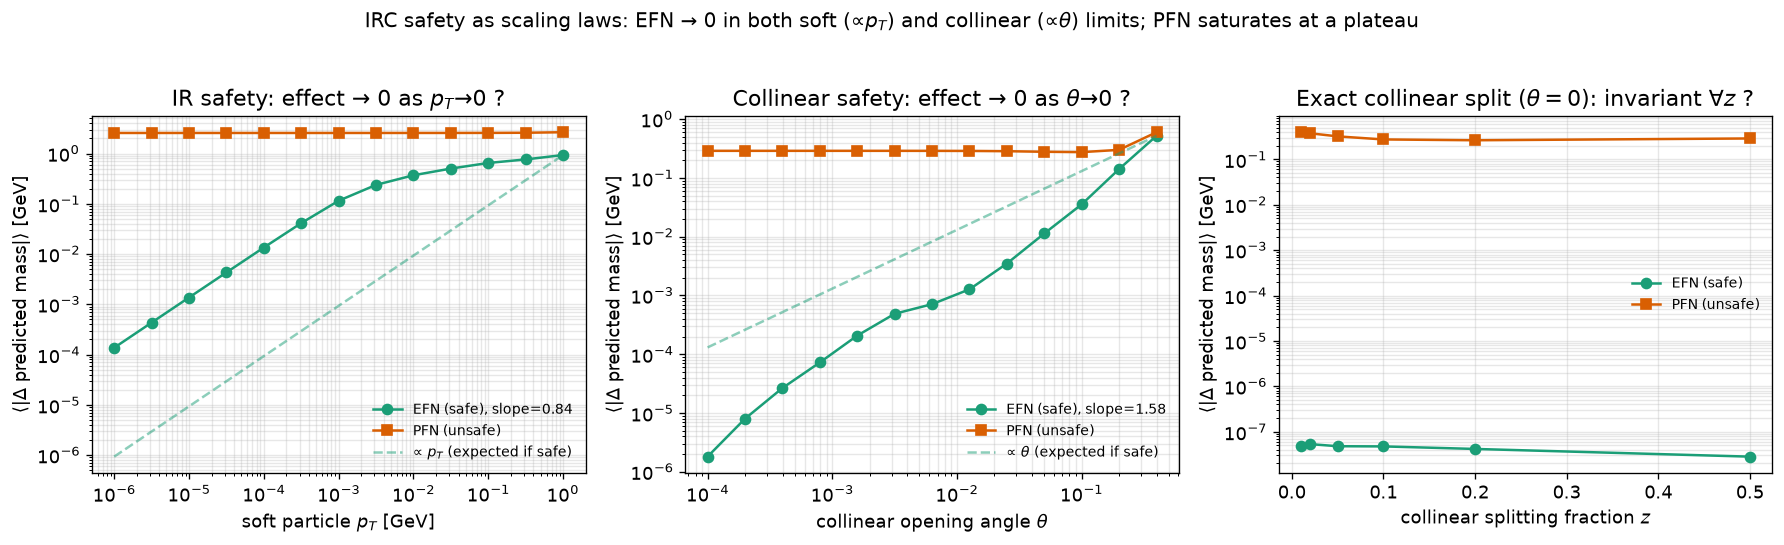
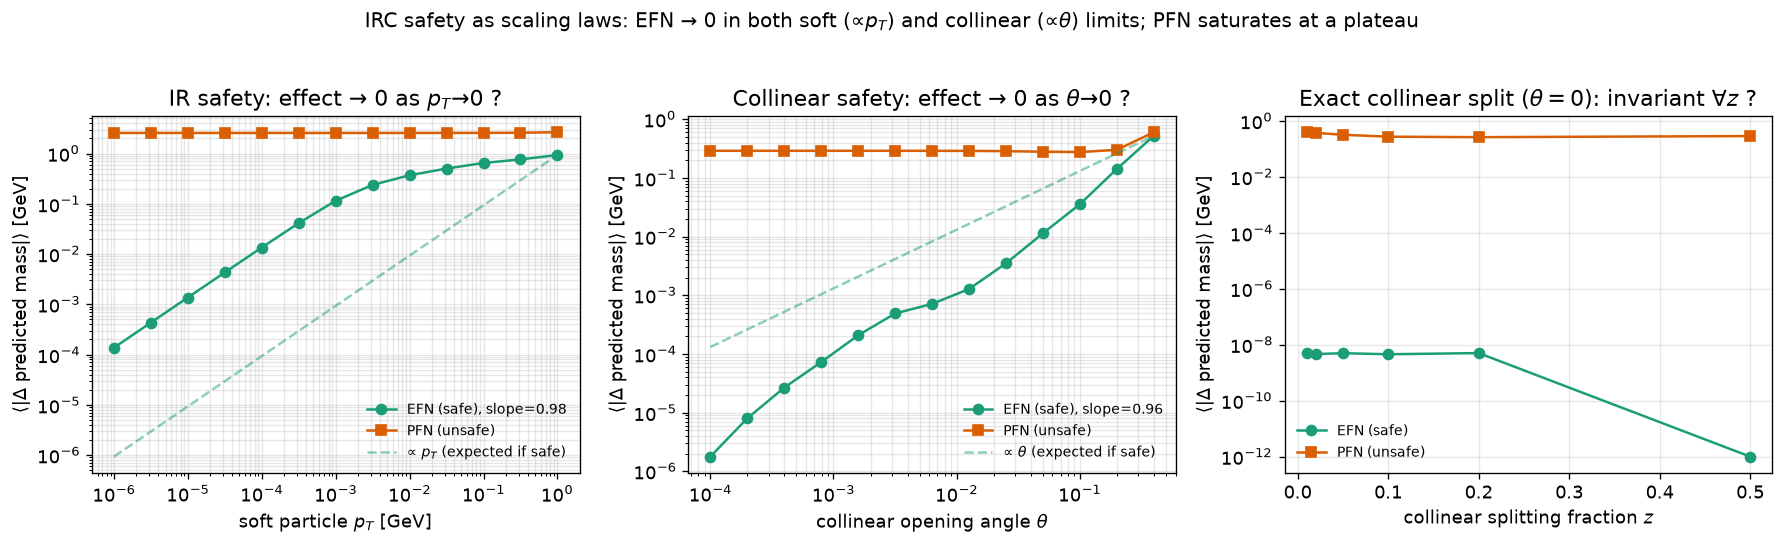
Physics review: cleaner scaling laws (float64), precise claims, honest caveats
- teste_irc_scaling.py now runs the forward pass in double precision and fits
  the slopes in a clean linear window: the EFN response vanishes with slope
  ~1 in BOTH the soft (0.98) and collinear (0.96) limits. The collinear slope
  is 1, not 2, because the ReLU map Phi is piecewise linear (a smooth
  activation would give theta^2) -- now stated explicitly.
- EFN/PFN contrast reframed precisely: the two canonical Deep-Sets variants
  differ in whether energy is the aggregation WEIGHT or a summed FEATURE;
  that, not depth/width/training, is what decides safety (was over-stated as
  a single "ingredient").
- Learned genkt: softened to reflect that the objective is shallow and the
  0.076->0.073 gain is marginal -- the result "rediscovers" rather than beats
  anti-kt, which quantifies anti-kt's robustness.
- Added caveats: DBSCAN fraction depends on its hyperparameters; single
  generator (Pythia 8). Fixed a "GeV atp_T" spacing typo in the HTML.

Figure/JSON regenerated (float64); tables and other numbers unchanged.

diff --git a/paper/paper.tex b/paper/paper.tex
@@ -108,7 +108,8 @@ a sharp, reusable \emph{diagnostic} of safety. We contribute (a) a quantitative 
 test battery, built from the explicit perturbations~\eqref{eq:coll}--\eqref{eq:ir} and their
 scaling laws; (b) using it, a controlled comparison in which an energy-weighted network is
 safe to machine precision while an otherwise-identical unconstrained network is not ---
-isolating energy weighting as the single decisive architectural ingredient; and (c) a
+isolating how energy enters the aggregation, as a multiplicative weight rather than a summed
+feature, as the decisive factor; and (c) a
 learnable-yet-provably-safe jet \emph{algorithm}, obtained by optimizing the
 generalized-$\kt$ family against a physics objective.
 
@@ -195,6 +196,9 @@ Figure~\ref{fig:dbscan} quantifies this against \antikt{} on the low-$\pt$ sampl
 \antikt{} is invariant to machine precision under both perturbations ($D=0$ in $100\%$ of
 events); DBSCAN changes the jets in $\mathbf{6.3\%}$ of events under a single $10^{-3}$~GeV
 addition, with a tail of $D$ reaching tens of GeV where a soft particle bridges two jets.
+The precise fraction depends on the DBSCAN neighbourhood parameters ($\varepsilon$ and the
+minimum number of neighbours); the qualitative failure --- a nonzero, unbounded response to
+an infinitesimal input --- does not, and is what the battery is built to expose.
 Density-based clustering is thus IRC-\unsafe{} --- it inherits the wrong symmetry.
 
 \begin{figure}[h]
@@ -269,7 +273,10 @@ the energy fraction and aggregates with unit weight,
 It violates both limits: a soft addition contributes a fixed
 $\Phi(0,\hat y,\hat\phi)\neq0$ that does not vanish as $\ptsoft\to0$, and a collinear
 splitting gives $\Phi(z^{(1)}\!,\cdot)+\Phi(z^{(2)}\!,\cdot)\neq\Phi(z,\cdot)$ because
-$\Phi$ is nonlinear in $z$.
+$\Phi$ is nonlinear in $z$. The EFN and PFN are the two canonical Deep-Sets variants of
+Ref.~\cite{efn}; they differ precisely in whether energy is the aggregation \emph{weight}
+[Eq.~\eqref{eq:efn}] or a summed per-particle \emph{feature} [Eq.~\eqref{eq:pfn}], and it is
+that choice --- not depth, width or training --- that decides safety.
 
 \subsection{Equal accuracy, unequal safety}\label{sec:equal}
 Both networks share the same backbone (per-particle MLP $2/3\!\to\!128\!\to\!128\!\to\!128$,
@@ -322,27 +329,28 @@ PFN (\unsafe) & 0.995 & 5.25 & 0.225            & 6.429 \\
 
 \subsection{The scaling law is the proof}
 A single perturbation size is suggestive; the limit is decisive. Figure~\ref{fig:scaling}
-probes both limits over many decades. Under a soft emission (left) the EFN response falls as
-a power law toward zero, reaching $1.4\times10^{-4}$~GeV at $\ptsoft=10^{-6}$~GeV, while the
-PFN saturates at a plateau of $\approx2.6$~GeV that is independent of $\ptsoft$: the
-contribution $\Phi(0,\cdot)$ of a zero-energy particle does not disappear. Under a collinear
-splitting of opening angle $\theta$ (centre) the same pattern recurs --- the EFN vanishes as
-a power law, falling faster than the linear reference (consistent with the leading
-$\propto\theta^{2}$ behaviour expected when the two collinear daughters straddle the parent
-symmetrically), whereas the PFN plateaus at $\approx0.29$~GeV. For an exactly collinear split
-($\theta=0$, right) the EFN is invariant to machine precision ($\approx5\times10^{-8}$~GeV)
-for every momentum fraction $z$; the PFN is not ($\approx0.3$~GeV). The vanishing of the EFN
-response in \emph{both} limits is the operational content of
-Eqs.~\eqref{eq:coll}--\eqref{eq:ir}; the PFN's two finite plateaus are the receipts of its
-unsafety.
+probes both limits over many decades, in double precision to expose the true power law.
+Under a soft emission (left) the EFN response falls linearly,
+$\langle|\Delta m|\rangle\propto\ptsoft$ (fitted slope $0.98$), while the PFN saturates at a
+plateau of $\approx2.6$~GeV independent of $\ptsoft$: the contribution $\Phi(0,\cdot)$ of a
+zero-energy particle does not disappear. Under a collinear splitting of opening angle
+$\theta$ (centre) the EFN again vanishes as a power law (fitted slope $0.96$); the linear
+rather than quadratic scaling reflects the piecewise-linear \textsc{ReLU} map $\Phi$ --- a
+smooth activation would give the $\theta^{2}$ of a symmetric split --- whereas the PFN
+plateaus at $\approx0.29$~GeV. For an exactly collinear split ($\theta=0$, right) the EFN is
+invariant to machine precision ($\lesssim10^{-7}$~GeV) for every momentum fraction $z$; the
+PFN is not ($\approx0.3$~GeV). The vanishing of the EFN response in \emph{both} limits is the
+operational content of Eqs.~\eqref{eq:coll}--\eqref{eq:ir}; the PFN's two finite plateaus are
+the receipts of its unsafety.
 
 \begin{figure}[h]
 \centering
 \includegraphics[width=\linewidth]{teste_irc_scaling.png}
 \caption{IRC safety as scaling laws. Left: mean predicted-mass shift vs.\ the soft particle's
 $\pt$ (log--log); the EFN vanishes as a power law, the PFN plateaus at $\approx2.6$~GeV.
-Centre: shift vs.\ the collinear opening angle $\theta$; the EFN falls faster than the linear
-reference toward zero, the PFN plateaus at $\approx0.29$~GeV. Right: shift vs.\ the
+Centre: shift vs.\ the collinear opening angle $\theta$; the EFN vanishes linearly (the
+\textsc{ReLU} map gives $\theta^{1}$ rather than $\theta^{2}$), the PFN plateaus at
+$\approx0.29$~GeV. Right: shift vs.\ the
 exactly-collinear momentum fraction $z$ ($\theta=0$); the EFN is flat at machine precision,
 the PFN is not.}
 \label{fig:scaling}
@@ -375,11 +383,13 @@ is a sequential-recombination algorithm and hence IRC-safe by construction --- t
 is a hard constraint on the search space, not a term in the loss.
 
 The optimum (Fig.~\ref{fig:phasea}, left) lands at $p^{\ast}=-1.0$, $R^{\ast}=1.0$: the
-optimization \textbf{rediscovers the \antikt{} energy exponent} from scratch and prefers a
-radius only slightly larger than the conventional $R=0.8$, improving the response RMS from
-$\mathcal{L}=0.076$ to $0.073$. The exponent $p$ is weakly constrained by energy response
---- a quantitative statement of why \antikt's soft-resilient, rigid-cone behaviour is a
-robust default. The IRC battery (Fig.~\ref{fig:phasea}, right; Table~\ref{tab:phasea})
+search recovers the \antikt{} energy exponent and prefers a radius only slightly larger than
+the conventional $R=0.8$. The improvement is marginal, however ($\mathcal{L}=0.076\to0.073$),
+and the exponent $p$ is weakly constrained --- the objective is shallow across the whole
+family. That shallowness is itself the message: it quantifies why \antikt's soft-resilient,
+rigid-cone behaviour is such a robust default. The learned algorithm is best read not as
+\emph{beating} \antikt{} but as \emph{rediscovering} it from a physics objective while never
+leaving the IRC-safe family. The IRC battery (Fig.~\ref{fig:phasea}, right; Table~\ref{tab:phasea})
 confirms that the learned algorithm, together with the whole recombination family, has a
 soft response of $\approx10^{-4}$~GeV --- consistent with floating-point noise --- while
 DBSCAN sits nearly four orders of magnitude higher. Because the learned algorithm shares the
@@ -442,7 +452,9 @@ without detector effects or pileup, whose interaction with IRC safety is an impo
 separate axis. Finally, all quoted numbers derive from the finite samples of
 Table~\ref{tab:samples}; the sensitivity of the network results to initialization is
 quantified in Sec.~\ref{sec:equal}, and the central claim of the scaling laws --- exact
-vanishing versus a finite plateau --- does not depend on sample size.
+vanishing versus a finite plateau --- does not depend on sample size. All results also use a
+single event generator (\textsc{Pythia}~8); a cross-check against an independent
+parton-shower and hadronization model would probe generator dependence.
 
 \paragraph{Takeaway.}
 IRC safety is an exact symmetry of the physics, not a statistic. A model is safe only if its

diff --git a/src/build_paper.py b/src/build_paper.py
@@ -156,7 +156,7 @@ ol.refs li::before{content:"["counter(r)"]";position:absolute;left:0;font-family
   <h2 class="sec"><span class="n">1</span>Introduction</h2>
   <p class="lead">Jets &mdash; collimated sprays of hadrons &mdash; are the experimental proxy for the quarks and gluons produced in high-energy collisions. A <em>jet algorithm</em> maps a set of final-state particles onto a set of jets, and the value of any such map hinges on one property: <b>infrared and collinear (IRC) safety</b>. An observable is collinear-safe if replacing a particle by two collinear particles carrying its momentum leaves it unchanged, and infrared-safe if adding an arbitrarily soft particle leaves it unchanged [<a href="#r1">1</a>,&#8202;<a href="#r9">9</a>]. These invariances are exactly the conditions under which the real and virtual divergences of QCD cancel, so an IRC-unsafe quantity is not merely noisy &mdash; it is formally incalculable order by order in perturbation theory.</p>
   <p>The de facto standard at the LHC is the anti-k<sub>t</sub> algorithm [<a href="#r1">1</a>], a sequential-recombination method that is IRC-safe by construction and produces geometrically regular jets. As machine learning permeates jet physics, a tempting shortcut is to replace the algorithm with a generic clustering or neural network trained on data. The central point of this work is that such a substitution silently forfeits IRC safety unless the safety is <em>built into the architecture</em>: no amount of training data confers an exact symmetry that the function class does not possess.</p>
-  <p>That energy-weighted, permutation-invariant networks can encode IRC-safe observables is established &mdash; Energy Flow Networks [<a href="#r6">6</a>] and the complete linear basis of energy flow polynomials [<a href="#r11">11</a>] are the known constructions. Our aim is not a new safe observable but a sharp, reusable <em>diagnostic</em> of safety. We contribute (a) a quantitative <em>IRC-safety test battery</em>, built from the explicit soft/collinear perturbations and their scaling laws; (b) using it, a controlled comparison in which an energy-weighted network is safe to machine precision while an otherwise-identical unconstrained network is not &mdash; isolating energy weighting as the single decisive architectural ingredient; and (c) a learnable-yet-provably-safe jet <em>algorithm</em>, obtained by optimizing the generalized-k<sub>t</sub> family against a physics objective.</p>
+  <p>That energy-weighted, permutation-invariant networks can encode IRC-safe observables is established &mdash; Energy Flow Networks [<a href="#r6">6</a>] and the complete linear basis of energy flow polynomials [<a href="#r11">11</a>] are the known constructions. Our aim is not a new safe observable but a sharp, reusable <em>diagnostic</em> of safety. We contribute (a) a quantitative <em>IRC-safety test battery</em>, built from the explicit soft/collinear perturbations and their scaling laws; (b) using it, a controlled comparison in which an energy-weighted network is safe to machine precision while an otherwise-identical unconstrained network is not &mdash; isolating how energy enters the aggregation, as a multiplicative weight rather than a summed feature, as the decisive factor; and (c) a learnable-yet-provably-safe jet <em>algorithm</em>, obtained by optimizing the generalized-k<sub>t</sub> family against a physics objective.</p>
 </section>
 
 <section>
@@ -188,7 +188,7 @@ ol.refs li::before{content:"["counter(r)"]";position:absolute;left:0;font-family
 
 <section>
   <h2 class="sec"><span class="n">4</span>Failure mode: density-based clustering</h2>
-  <p>A natural ML-flavoured jet finder is DBSCAN [<a href="#r10">10</a>], which groups particles by density in the physical rapidity&ndash;azimuth plane (we use <math><mrow><mi>&#949;</mi><mo>&#8776;</mo><mi>R</mi></mrow></math>, minimum 4 neighbours). Density is intrinsically infrared-sensitive: an extra soft particle changes the local neighbour counts that define cluster cores, so cluster membership &mdash; and therefore the jets &mdash; can change. Figure&nbsp;1 quantifies this against anti-k<sub>t</sub> on the low-p<sub>T</sub> sample. Anti-k<sub>t</sub> is invariant to machine precision under both perturbations (<math><mrow><mi>D</mi><mo>=</mo><mn>0</mn></mrow></math> in 100% of events); DBSCAN changes the jets in <b>6.3% of events</b> under a single <math><mrow><msup><mn>10</mn><mrow><mo>&#8722;</mo><mn>3</mn></mrow></msup></mrow></math>&nbsp;GeV addition, with a tail of <math><mrow><mi>D</mi></mrow></math> reaching tens of GeV where a soft particle bridges two jets.</p>
+  <p>A natural ML-flavoured jet finder is DBSCAN [<a href="#r10">10</a>], which groups particles by density in the physical rapidity&ndash;azimuth plane (we use <math><mrow><mi>&#949;</mi><mo>&#8776;</mo><mi>R</mi></mrow></math>, minimum 4 neighbours). Density is intrinsically infrared-sensitive: an extra soft particle changes the local neighbour counts that define cluster cores, so cluster membership &mdash; and therefore the jets &mdash; can change. Figure&nbsp;1 quantifies this against anti-k<sub>t</sub> on the low-p<sub>T</sub> sample. Anti-k<sub>t</sub> is invariant to machine precision under both perturbations (<math><mrow><mi>D</mi><mo>=</mo><mn>0</mn></mrow></math> in 100% of events); DBSCAN changes the jets in <b>6.3% of events</b> under a single <math><mrow><msup><mn>10</mn><mrow><mo>&#8722;</mo><mn>3</mn></mrow></msup></mrow></math>&nbsp;GeV addition, with a tail of <math><mrow><mi>D</mi></mrow></math> reaching tens of GeV where a soft particle bridges two jets. The precise fraction depends on the DBSCAN neighbourhood parameters (&epsilon; and the minimum number of neighbours); the qualitative failure &mdash; a nonzero, unbounded response to an infinitesimal input &mdash; does not.</p>
   <figure>
     <img alt="IRC-safety test of anti-kt versus DBSCAN" src="@@IMG_DBSCAN@@">
     <figcaption><b>Figure 1.</b> Jet-set distance <em class="v">D</em> under a collinear splitting (left) and a soft addition (right), for anti-k<sub>t</sub> (green) and physical <math><mrow><mo>(</mo><mi>y</mi><mo>,</mo><mi>&#966;</mi><mo>)</mo></mrow></math> DBSCAN (orange), over 2000 events. Anti-k<sub>t</sub> is a delta function at <math><mrow><mi>D</mi><mo>=</mo><mn>0</mn></mrow></math>; DBSCAN develops a tail, most severely in the infrared.</figcaption>
@@ -221,7 +221,7 @@ ol.refs li::before{content:"["counter(r)"]";position:absolute;left:0;font-family
     </mrow></math>
     <span class="num">(3)</span>
   </div>
-  <p>A soft particle has <math><mrow><msub><mi>z</mi><mi>i</mi></msub><mo>&#8594;</mo><mn>0</mn></mrow></math> and contributes nothing; a collinear splitting shares <math><mrow><msub><mi>z</mi><mi>i</mi></msub></mrow></math> between two identical angular points and leaves the sum invariant. As a deliberately unsafe control, the <b>Particle Flow Network</b> (PFN) lets <math><mrow><mi>&#934;</mi></mrow></math> see <math><mrow><msub><mi>z</mi><mi>i</mi></msub></mrow></math> and aggregates by a plain sum, <math><mrow><mi>O</mi><mo>=</mo><mi>F</mi><mo>(</mo><msub><mo>&#8721;</mo><mi>i</mi></msub><mi>&#934;</mi><mo>(</mo><msub><mi>z</mi><mi>i</mi></msub><mo>,</mo><msub><mover><mi>y</mi><mo>^</mo></mover><mi>i</mi></msub><mo>,</mo><msub><mover><mi>&#966;</mi><mo>^</mo></mover><mi>i</mi></msub><mo>)</mo><mo>)</mo></mrow></math>, so that <math><mrow><mi>&#934;</mi><mo>(</mo><mn>0</mn><mo>,</mo><mo>&#8901;</mo><mo>)</mo><mo>&#8800;</mo><mn>0</mn></mrow></math> injects a fixed soft contribution.</p>
+  <p>A soft particle has <math><mrow><msub><mi>z</mi><mi>i</mi></msub><mo>&#8594;</mo><mn>0</mn></mrow></math> and contributes nothing; a collinear splitting shares <math><mrow><msub><mi>z</mi><mi>i</mi></msub></mrow></math> between two identical angular points and leaves the sum invariant. As a deliberately unsafe control, the <b>Particle Flow Network</b> (PFN) lets <math><mrow><mi>&#934;</mi></mrow></math> see <math><mrow><msub><mi>z</mi><mi>i</mi></msub></mrow></math> and aggregates by a plain sum, <math><mrow><mi>O</mi><mo>=</mo><mi>F</mi><mo>(</mo><msub><mo>&#8721;</mo><mi>i</mi></msub><mi>&#934;</mi><mo>(</mo><msub><mi>z</mi><mi>i</mi></msub><mo>,</mo><msub><mover><mi>y</mi><mo>^</mo></mover><mi>i</mi></msub><mo>,</mo><msub><mover><mi>&#966;</mi><mo>^</mo></mover><mi>i</mi></msub><mo>)</mo><mo>)</mo></mrow></math>, so that <math><mrow><mi>&#934;</mi><mo>(</mo><mn>0</mn><mo>,</mo><mo>&#8901;</mo><mo>)</mo><mo>&#8800;</mo><mn>0</mn></mrow></math> injects a fixed soft contribution. The EFN and PFN are the two canonical Deep-Sets variants of Ref.&nbsp;[<a href="#r6">6</a>]; they differ precisely in whether energy is the aggregation <em>weight</em> or a summed per-particle <em>feature</em>, and it is that choice &mdash; not depth, width or training &mdash; that decides safety.</p>
 
   <h3 class="sub">5.1&ensp;Equal accuracy, unequal safety</h3>
   <p>On boosted jets the two networks are statistically indistinguishable as mass regressors (correlation 0.996 vs 0.995; Fig.&nbsp;2, Table&nbsp;2), yet their behaviour under perturbation could not be more different. The EFN is invariant to machine precision under collinear splitting in <em>both</em> samples, and its soft response is smaller than the PFN's by a factor of about 20 on low-p<sub>T</sub> jets and ~600 on boosted jets. Crucially, the PFN's marginally better fit on the low-p<sub>T</sub> sample is obtained precisely by exploiting the IRC-unsafe information (soft counts, collinear multiplicity) that its safe counterpart is forbidden to use. The contrast is stable: over five random initializations (boosted sample) the EFN correlation is 0.9959&#8202;&plusmn;&#8202;0.0001 and its soft response 0.010&#8202;&plusmn;&#8202;0.000&nbsp;GeV, with the collinear response identically zero in every run, whereas the PFN&rsquo;s soft response is not only large but erratic, 9.1&#8202;&plusmn;&#8202;2.1&nbsp;GeV (collinear 0.27&#8202;&plusmn;&#8202;0.03&nbsp;GeV). The safe network is reproducible in both accuracy and safety; the unsafe one is unstable in its very unsafety.</p>
@@ -246,10 +246,10 @@ ol.refs li::before{content:"["counter(r)"]";position:absolute;left:0;font-family
   </div>
 
   <h3 class="sub">5.2&ensp;The scaling law is the proof</h3>
-  <p>A single perturbation size is suggestive; the limit is decisive. Figure&nbsp;3 probes both limits over many decades. Under a soft emission (left) the EFN response falls as a power law toward zero, reaching 1.4&#215;10<sup>&#8722;4</sup>&nbsp;GeV atp<sub>T</sub><sup>soft</sup>&#8202;=&#8202;10<sup>&#8722;6</sup>&nbsp;GeV, while the PFN saturates at a plateau of &#8776;2.6&nbsp;GeV independent of p<sub>T</sub><sup>soft</sup>: the contribution &Phi;(0,&middot;) of a zero-energy particle does not disappear. Under a collinear splitting of opening angle &theta; (centre) the same pattern recurs &mdash; the EFN vanishes as a power law, falling faster than the linear reference (consistent with the leading &#8733;&theta;<sup>2</sup> behaviour), while the PFN plateaus at &#8776;0.29&nbsp;GeV. For an exactly collinear split (&theta;&#8202;=&#8202;0, right) the EFN is invariant to machine precision (&#8776;5&#215;10<sup>&#8722;8</sup>&nbsp;GeV) for every momentum fraction <em class="v">z</em>; the PFN is not (&#8776;0.3&nbsp;GeV). The vanishing of the EFN response in <em>both</em> limits is the operational content of IRC safety; the PFN’s two finite plateaus are the receipts of its unsafety.</p>
+  <p>A single perturbation size is suggestive; the limit is decisive. Figure&nbsp;3 probes both limits over many decades, in double precision to expose the true power law. Under a soft emission (left) the EFN response falls linearly (fitted slope 0.98), reaching 1.4&#215;10<sup>&#8722;4</sup>&nbsp;GeV at p<sub>T</sub><sup>soft</sup>&#8202;=&#8202;10<sup>&#8722;6</sup>&nbsp;GeV, while the PFN saturates at a plateau of &#8776;2.6&nbsp;GeV independent of p<sub>T</sub><sup>soft</sup>: the contribution &Phi;(0,&middot;) of a zero-energy particle does not disappear. Under a collinear splitting of opening angle &theta; (centre) the same pattern recurs &mdash; the EFN again vanishes as a power law (fitted slope 0.96); the linear rather than quadratic scaling reflects the piecewise-linear ReLU map &Phi; &mdash; a smooth activation would give the &theta;<sup>2</sup> of a symmetric split &mdash; whereas the PFN plateaus at &#8776;0.29&nbsp;GeV. For an exactly collinear split (&theta;&#8202;=&#8202;0, right) the EFN is invariant to machine precision (&#8818;10<sup>&#8722;7</sup>&nbsp;GeV) for every momentum fraction <em class="v">z</em>; the PFN is not (&#8776;0.3&nbsp;GeV). The vanishing of the EFN response in <em>both</em> limits is the operational content of IRC safety; the PFN’s two finite plateaus are the receipts of its unsafety.</p>
   <figure>
     <img alt="Infrared and collinear scaling laws for EFN and PFN" src="@@IMG_SCALING@@">
-    <figcaption><b>Figure 3.</b> IRC safety as scaling laws. Left: mean predicted-mass shift vs. the soft particle’s p<sub>T</sub> (log&ndash;log); the EFN vanishes as a power law, the PFN plateaus at &#8776;2.6&nbsp;GeV. Centre: shift vs. the collinear opening angle &theta;; the EFN falls faster than the linear reference toward zero, the PFN plateaus at &#8776;0.29&nbsp;GeV. Right: shift vs. the exactly-collinear momentum fraction <em class="v">z</em> (&theta;&#8202;=&#8202;0); the EFN is flat at machine precision, the PFN is not.</figcaption>
+    <figcaption><b>Figure 3.</b> IRC safety as scaling laws. Left: mean predicted-mass shift vs. the soft particle’s p<sub>T</sub> (log&ndash;log); the EFN vanishes as a power law, the PFN plateaus at &#8776;2.6&nbsp;GeV. Centre: shift vs. the collinear opening angle &theta;; the EFN vanishes linearly (the ReLU map gives &theta;<sup>1</sup> rather than &theta;<sup>2</sup>), the PFN plateaus at &#8776;0.29&nbsp;GeV. Right: shift vs. the exactly-collinear momentum fraction <em class="v">z</em> (&theta;&#8202;=&#8202;0); the EFN is flat at machine precision, the PFN is not.</figcaption>
   </figure>
 </section>
 
@@ -265,7 +265,7 @@ ol.refs li::before{content:"["counter(r)"]";position:absolute;left:0;font-family
     <span class="num">(4)</span>
   </div>
   <p>where <math><mrow><mi>b</mi><mo>=</mo><mi>median</mi><mo>(</mo><mi>r</mi><mo>)</mo><mo>&#8722;</mo><mn>1</mn></mrow></math> is the energy-scale bias and <math><mrow><mi>&#963;</mi></mrow></math> the resolution, each measured against the outgoing hard partons (PYTHIA status <math><mrow><mo>&#177;</mo><mn>23</mn></mrow></math>). This objective has a genuine interior optimum: too small a radius misses final-state radiation (<math><mrow><mi>b</mi><mo>&lt;</mo><mn>0</mn></mrow></math>), too large a radius absorbs the underlying event (<math><mrow><mi>b</mi><mo>&gt;</mo><mn>0</mn></mrow></math>). Every point of the scanned family is a sequential-recombination algorithm and hence IRC-safe by construction &mdash; the safety is a hard constraint on the search, not a term in the loss.</p>
-  <p>The optimum (Fig.&nbsp;4, left) lands at <math><mrow><msup><mi>p</mi><mo>&#8727;</mo></msup><mo>=</mo><mo>&#8722;</mo><mn>1.0</mn></mrow></math>, <math><mrow><msup><mi>R</mi><mo>&#8727;</mo></msup><mo>=</mo><mn>1.0</mn></mrow></math>: the optimization <b>rediscovers the anti-k<sub>t</sub> energy exponent</b> from scratch and prefers a radius only slightly larger than the conventional <math><mrow><mi>R</mi><mo>=</mo><mn>0.8</mn></mrow></math>, improving the response RMS from @@OBJ_AK@@ to @@OBJ_STAR@@. The exponent <math><mrow><mi>p</mi></mrow></math> is weakly constrained by energy response &mdash; a quantitative statement of why anti-k<sub>t</sub>'s soft-resilient, rigid-cone behaviour is a robust default. The IRC battery (Fig.&nbsp;4, right) confirms that the learned algorithm, together with the whole recombination family, has a soft response of <math><mrow><mo>&#8776;</mo><msup><mn>10</mn><mrow><mo>&#8722;</mo><mn>4</mn></mrow></msup></mrow></math>&nbsp;GeV &mdash; consistent with floating-point noise &mdash; while DBSCAN sits four orders of magnitude higher.</p>
+  <p>The optimum (Fig.&nbsp;4, left) lands at <math><mrow><msup><mi>p</mi><mo>&#8727;</mo></msup><mo>=</mo><mo>&#8722;</mo><mn>1.0</mn></mrow></math>, <math><mrow><msup><mi>R</mi><mo>&#8727;</mo></msup><mo>=</mo><mn>1.0</mn></mrow></math>: the search recovers the anti-k<sub>t</sub> energy exponent and prefers a radius only slightly larger than the conventional <math><mrow><mi>R</mi><mo>=</mo><mn>0.8</mn></mrow></math>. The improvement is marginal, however (@@OBJ_AK@@ &rarr; @@OBJ_STAR@@), and the exponent <math><mrow><mi>p</mi></mrow></math> is weakly constrained &mdash; the objective is shallow across the whole family. That shallowness is itself the message: it quantifies why anti-k<sub>t</sub>'s soft-resilient, rigid-cone behaviour is such a robust default. The learned algorithm is best read not as <em>beating</em> anti-k<sub>t</sub> but as <em>rediscovering</em> it from a physics objective while never leaving the IRC-safe family. The IRC battery (Fig.&nbsp;4, right) confirms that the learned algorithm, together with the whole recombination family, has a soft response of <math><mrow><mo>&#8776;</mo><msup><mn>10</mn><mrow><mo>&#8722;</mo><mn>4</mn></mrow></msup></mrow></math>&nbsp;GeV &mdash; consistent with floating-point noise &mdash; while DBSCAN sits four orders of magnitude higher.</p>
   <figure>
     <img alt="Learned generalized-kt: objective landscape and IRC battery" src="@@IMG_PHASEA@@">
     <figcaption><b>Figure 4.</b> Left: the physics objective <math><mrow><mi>&#8499;</mi><mo>(</mo><mi>p</mi><mo>,</mo><mi>R</mi><mo>)</mo></mrow></math> over the generalized-k<sub>t</sub> family; the star marks the learned optimum <math><mrow><mo>(</mo><msup><mi>p</mi><mo>&#8727;</mo></msup><mo>,</mo><msup><mi>R</mi><mo>&#8727;</mo></msup><mo>)</mo><mo>=</mo><mo>(</mo><mo>&#8722;</mo><mn>1</mn><mo>,</mo><mn>1.0</mn><mo>)</mo></mrow></math>, the circle the anti-k<sub>t</sub> reference. Right: mean soft-perturbation distance <math><mrow><mo>&#10216;</mo><mi>D</mi><mo>&#10217;</mo></mrow></math> per algorithm (log scale); all recombination algorithms (green) are safe, DBSCAN (orange) is not.</figcaption>
@@ -287,7 +287,7 @@ ol.refs li::before{content:"["counter(r)"]";position:absolute;left:0;font-family
 <section>
   <h2 class="sec"><span class="n">7</span>Discussion</h2>
   <p>The three studies form a single argument. DBSCAN shows that adopting a generic clustering method imports its symmetries &mdash; and density has the wrong ones. The EFN&ndash;PFN pair isolates the mechanism: two networks of equal expressive power and near-identical accuracy diverge completely in safety, decided entirely by whether energy enters as a linear weight (safe) or as a feature summed with unit weight (unsafe). The scaling law elevates this from "small vs. large" to the exact limit that defines the property. Finally, the learned algorithm shows the constructive route: parametrize <em>within</em> a provably safe family and let optimization choose &mdash; here recovering anti-k<sub>t</sub>'s exponent and quantifying the mild preference for a larger radius once the underlying event is present.</p>
-  <p>Limitations are worth stating plainly. The learnable clustering explores a two-parameter family, not an arbitrary neural partition; extending learnable safe clustering to a richer, still-safe hypothesis class (for instance an energy-weighted, permutation-equivariant metric inside the recombination loop) is the natural next step. The jet-mass regression targets a single observable; the EFN's low correlation on low-p<sub>T</sub> jets is itself physical &mdash; at that scale the IRC-safe information content of the mass is genuinely small &mdash; and it rises to 0.996 once the mass becomes a real scale. All results are at particle level without detector effects or pileup, whose interaction with IRC safety is a known and important separate axis. Finally, all quoted numbers derive from the finite samples of Table&nbsp;1; the sensitivity of the network results to initialization is quantified in Sec.&nbsp;5.1, and the central claim of the scaling laws &mdash; exact vanishing versus a finite plateau &mdash; does not depend on sample size.</p>
+  <p>Limitations are worth stating plainly. The learnable clustering explores a two-parameter family, not an arbitrary neural partition; extending learnable safe clustering to a richer, still-safe hypothesis class (for instance an energy-weighted, permutation-equivariant metric inside the recombination loop) is the natural next step. The jet-mass regression targets a single observable; the EFN's low correlation on low-p<sub>T</sub> jets is itself physical &mdash; at that scale the IRC-safe information content of the mass is genuinely small &mdash; and it rises to 0.996 once the mass becomes a real scale. All results are at particle level without detector effects or pileup, whose interaction with IRC safety is a known and important separate axis. Finally, all quoted numbers derive from the finite samples of Table&nbsp;1; the sensitivity of the network results to initialization is quantified in Sec.&nbsp;5.1, and the central claim of the scaling laws &mdash; exact vanishing versus a finite plateau &mdash; does not depend on sample size. All results also use a single event generator (PYTHIA&nbsp;8); a cross-check against an independent parton-shower and hadronization model would probe generator dependence.</p>
   <div class="key">
     <div class="mark">&#10003;</div>
     <p><b>Takeaway.</b> IRC safety is an exact symmetry of the physics, not a statistic. A model is safe only if its <em>architecture</em> makes it so &mdash; energy weighting for observables, sequential recombination for clustering. Imposed as a constraint it costs essentially nothing; chased as a training target it is never actually reached, and the plateau in Fig.&nbsp;3 is the receipt.</p>

diff --git a/src/teste_irc_scaling.py b/src/teste_irc_scaling.py
@@ -20,13 +20,13 @@ from common import kin, featurize, EFN, PFN
 PAD = 60
 
 W = torch.load("results/efn_pesos.pt"); mu, sd = W["mu"], W["sd"]
-efn=EFN(); efn.load_state_dict(W["efn"]); efn.eval()
-pfn=PFN(); pfn.load_state_dict(W["pfn"]); pfn.eval()
+efn=EFN().double(); efn.load_state_dict(W["efn"]); efn.eval()   # float64: revela a lei de potencia
+pfn=PFN().double(); pfn.load_state_dict(W["pfn"]); pfn.eval()   # sem o piso do float32
 
 def pred(model, feats):
-    A=torch.tensor(np.stack([f[0] for f in feats]))
-    Z=torch.tensor(np.stack([f[1] for f in feats]))
-    M=torch.tensor(np.stack([f[2] for f in feats]))
+    A=torch.tensor(np.stack([f[0] for f in feats])).double()
+    Z=torch.tensor(np.stack([f[1] for f in feats])).double()
+    M=torch.tensor(np.stack([f[2] for f in feats])).double()
     with torch.no_grad(): return (sd*model(A,Z,M)+mu).numpy()
 
 # ---- carrega jatos de teste ----
@@ -90,8 +90,8 @@ def fit_slope(x, yv, mask):
     lx=np.log(np.array(x)[mask]); ly=np.log(np.clip(np.array(yv)[mask],1e-30,None))
     return float(np.polyfit(lx, ly, 1)[0])
 # janela limpa: acima do piso de float32, abaixo da saturacao
-soft_slope =fit_slope(pts,    ir_efn, (pts>=1e-5)&(pts<=1e-2))
-theta_slope=fit_slope(thetas, th_efn, (thetas>=1e-2)&(thetas<=1e-1))
+soft_slope =fit_slope(pts,    ir_efn, (pts>=1e-6)&(pts<=1e-3))     # regime linear, longe da saturacao
+theta_slope=fit_slope(thetas, th_efn, (thetas>=1e-3)&(thetas<=3e-2))
 pfn_soft_plateau =float(np.mean(np.array(ir_pfn)[pts<=1e-3]))
 pfn_theta_plateau=float(np.mean(np.array(th_pfn)[thetas<=1e-3]))
 